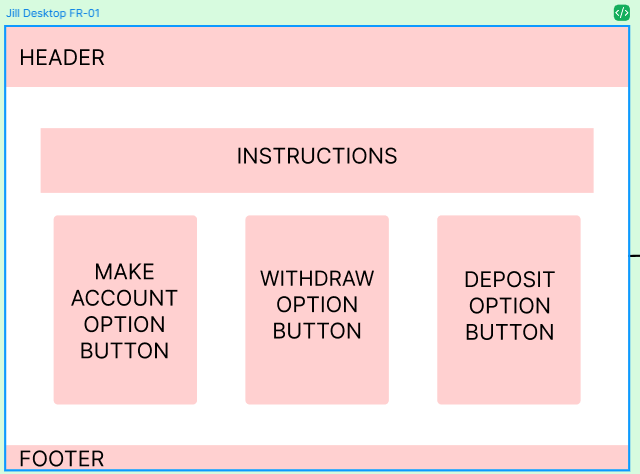
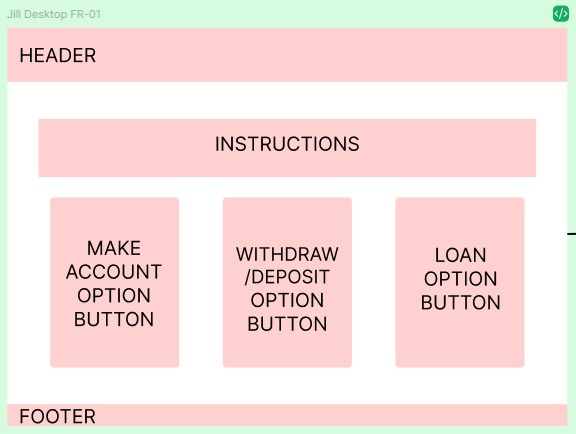
committed.

diff --git a/templates/join.html b/templates/join.html
@@ -1,20 +1,51 @@
 {% extends "base.html" %}
-
-{% block title %}Join the queue · ClinicQ{% endblock %}
+{% block title %}Join the queue · YourApp{% endblock %}
 
 {% block content %}
-  <h2>Join the queue</h2>
+<div class="row justify-content-center">
+  <div class="col-12 col-md-8 col-lg-6">
+    <h1 class="h3 mb-3">Join the queue</h1>
 
-  {% if error %}
-    <p class="error">{{ error }}</p>
-  {% endif %}
+    <form method="post" action="{{ url_for('join') }}" novalidate id="join-form">
+      <div class="mb-3">
+        <label for="name" class="form-label">Your name</label>
+        <input id="name" name="name" type="text" autocomplete="name" required
+               class="form-control {% if errors and errors.name %}is-invalid{% endif %}"
+               value="{{ form.get('name', '') }}"
+               {% if errors and errors.name %}aria-describedby="name-error"{% endif %}>
+        {% if errors and errors.name %}
+          <div id="name-error" class="invalid-feedback">{{ errors.name }}</div>
+        {% endif %}
+      </div>
 
-  {# method="post" sends the form to the same URL as a POST request #}
-  <form method="post" class="join-form">
-    <label for="name">Your name</label>
-    <input id="name" name="name" type="text" autofocus>
-    <button type="submit">Get a ticket</button>
-  </form>
+      <div class="mb-3">
+        <label for="email" class="form-label">Your email</label>
+        <input id="email" name="email" type="email" autocomplete="email" required
+               class="form-control {% if errors and errors.email %}is-invalid{% endif %}"
+               value="{{ form.get('email', '') }}"
+               {% if errors and errors.email %}aria-describedby="email-error"{% endif %}>
+        {% if errors and errors.email %}
+          <div id="email-error" class="invalid-feedback">{{ errors.email }}</div>
+        {% endif %}
+      </div>
 
-  <p><a href="{{ url_for('index') }}">&larr; Back to the queue</a></p>
+      <div class="mb-3">
+        <label for="service_id" class="form-label">Service</label>
+        <select id="service_id" name="service_id" required
+                class="form-select {% if errors and errors.service_id %}is-invalid{% endif %}">
+          <option value="">Choose a service…</option>
+          {% for s in services %}
+            <option value="{{ s.id }}"
+              {% if form.get('service_id') == s.id|string %}selected{% endif %}>{{ s.name }}</option>
+          {% endfor %}
+        </select>
+        {% if errors and errors.service_id %}
+          <div class="invalid-feedback">{{ errors.service_id }}</div>
+        {% endif %}
+      </div>
+
+      <button type="submit" class="btn btn-primary w-100">Get a ticket</button>
+    </form>
+  </div>
+</div>
 {% endblock %}

diff --git a/app.py b/app.py
@@ -4,7 +4,7 @@ Run it with:
     flask --app app run --debug
 then open http://127.0.0.1:5000
 """
-from flask import Flask, abort, redirect, render_template, request, url_for
+from flask import Flask, abort, flash, redirect, render_template, request, url_for
 
 app = Flask(__name__)
 app.secret_key = "dev-only-change-me"
@@ -50,25 +50,36 @@ def ticket(ticket_id):
     abort(404)  # no ticket with that number
 
 
-@app.route("/join", methods=["GET", "POST"])
-def join():
-    # GET: show the empty form. POST: the form was submitted.
-    if request.method == "POST":
-        name = request.form.get("name", "").strip()
-        if not name:
-            return render_template("join.html", error="Please enter your name.")
 
-        number = TICKETS[-1]["number"] + 1 if TICKETS else 1
-        TICKETS.append({"number": number, "name": name})
-        # Redirect after POST so refreshing the page doesn't join twice.
-        return redirect(url_for("ticket", ticket_id=number))
-
-    return render_template("join.html")
-
-
-@app.route("/join")
+@app.get("/join")
 def join_form():
-    return render_template("join.html")
+    return render_template("join.html", services=SERVICES, form={})
+
+
+@app.post("/join")
+def join():
+    form = request.form
+    name = form.get("name", "").strip()
+    email = form.get("email", "").strip().lower()
+    service_id = form.get("service_id", type=int)
+
+    errors = {}
+    if not name:
+        errors["name"] = "Enter your name."
+    if "@" not in email:
+        errors["email"] = "Enter a valid email address."
+    if service_id not in [s["id"] for s in SERVICES]:
+        errors["service_id"] = "Choose a service."
+
+    if errors:
+        flash("Please fix the highlighted fields.", "danger")
+        return render_template("join.html", services=SERVICES, form=form, errors=errors), 400
+
+    number = TICKETS[-1]["number"] + 1 if TICKETS else 1
+    TICKETS.append({"number": number, "name": name, "email": email,
+                    "service_id": service_id, "status": "waiting"})
+    flash(f"You joined the queue. Your ticket is #{number}.", "success")
+    return redirect(url_for("ticket", ticket_id=number))
 
 @app.route("/staff")
 def staff_dashboard():
